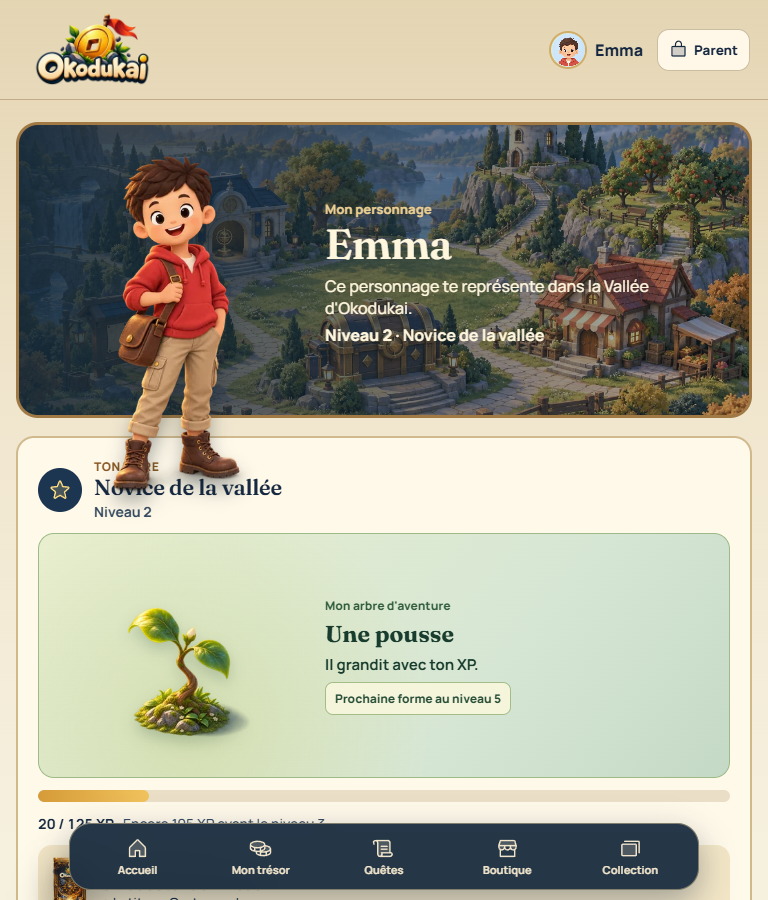
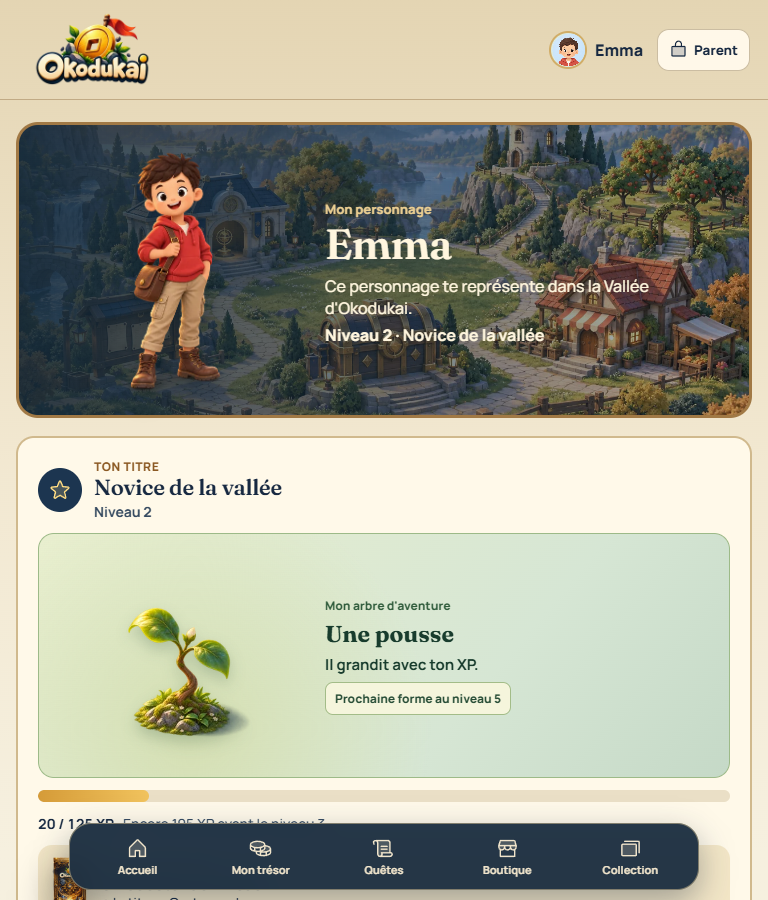
Extend full-body child roster and fix portrait framing

Changed region(s): [[0.125, 0.1556, 0.3125, 0.56]]

diff --git a/apps/web/src/styles/child-world.css b/apps/web/src/styles/child-world.css
@@ -120,7 +120,7 @@
 
 .character-scene { display: grid; grid-template-columns: 240px 1fr; align-items: center; gap: 30px; min-height: 285px; padding: 20px 36px; color: #fff6de; border: 3px solid #a17945; border-radius: 22px; background: linear-gradient(90deg, rgba(21, 42, 58, .9), rgba(21, 42, 58, .3)), url('/assets/backgrounds/child-hub-wide-1280.webp') center 48% / cover; }
 .character-portrait { width: 170px; height: 170px; display: grid; place-items: center; border: 5px solid #d4ae65; border-radius: 50%; background: radial-gradient(circle, #ffefca, #a67742); box-shadow: 0 8px 25px rgba(0, 0, 0, .3); }
-.character-portrait--figure { width: 235px; height: 250px; border: 0; border-radius: 0; background: none; box-shadow: none; }
+.character-portrait--figure { display: block; width: 235px; height: 250px; border: 0; border-radius: 0; background: none; box-shadow: none; }
 .character-figure-art { display: block; width: 100%; height: 100%; object-fit: contain; filter: drop-shadow(0 12px 9px rgba(14, 29, 36, .34)); }
 .character-figure-art .avatar { width: 138px; height: 138px; }
 .character-portrait .avatar { width: 138px; height: 138px; border: 0; }

diff --git a/apps/web/src/components/ChildCharacter.tsx b/apps/web/src/components/ChildCharacter.tsx
@@ -3,7 +3,7 @@ import { Avatar } from "./Avatar";
 /** Emma and Lucas have expressive poses; the other illustrated explorers keep their idle pose. */
 export type CharacterPose = "idle" | "happy" | "proud" | "thinking" | "victory" | "discovery";
 
-const illustratedAvatars = new Set(["aventurier-01", "aventurier-02", "aventurier-03", "aventurier-04", "aventurier-05", "aventurier-06"]);
+const illustratedAvatars = new Set(["aventurier-01", "aventurier-02", "aventurier-03", "aventurier-04", "aventurier-05", "aventurier-06", "aventurier-07", "aventurier-08", "aventurier-09", "aventurier-10"]);
 export function hasFullBodyCharacter(avatarId: string) { return illustratedAvatars.has(avatarId); }
 
 export function ChildCharacter({ avatarId, pose = "idle", className = "" }: { avatarId: string; pose?: CharacterPose; className?: string }) {

diff --git a/docs/CHILD_DESIGN_AUDIT.md b/docs/CHILD_DESIGN_AUDIT.md
@@ -37,7 +37,7 @@ Les captures viennent du foyer local de démonstration ; le bouton « Démo » n
 - Deux rendus d'échoppe évalués : le premier comportait des pseudo-inscriptions et a été écarté ; le second, sans texte peint, est intégré.
 - Album d'univers : son entête auparavant posé sur le fond beige reprend le décor de la galerie, avec un voile qui conserve la lisibilité. Les univers sans illustration de carte utilisent un pan de la galerie. Les chargements enfant affichent un sablier du monde. L'ouverture du booster a été vérifiée jusqu'au récapitulatif ; le dernier coup sur le cristal annonce sa rupture au lieu d'afficher « encore 0 touche ».
 - Boutique : la première planche de nouveaux objets reprenait le même motif d'étoile sur plusieurs récompenses sans raison. Elle a été rejetée. Les objets ont été refaits séparément, sans inscription ni emblème arbitraire. Le dessert et la glace ont deux images distinctes ; les récompenses de musique, ami, figurine, livre et temps d'écran ont chacune un objet lisible.
-- Personnages : les portraits 01–04 disposent maintenant d'un corps entier avec les traits et vêtements du roster. Les captures `child-character-{01,04}-{home,profile}-{375,768,1280}.png` contrôlent leur place dans la vallée et le profil. La silhouette reste visible derrière les plaques du village et le profil ne déborde pas sur téléphone.
+- Personnages : les portraits 01–04 et 07–10 disposent maintenant d'un corps entier avec les traits et vêtements du roster. Les captures `child-character-{01,04,07,10}-{home,profile}-{375,768,1280}.png` contrôlent leur place dans la vallée et le profil. Les portraits verticaux débordaient du profil sur tablette : le conteneur de figure utilise maintenant un bloc de hauteur fixe. Aucun débordement après nouvelle capture.
 
 ## Revue par profils (inspection de l'interface, sans test utilisateur)
 
@@ -54,4 +54,4 @@ Les captures viennent du foyer local de démonstration ; le bouton « Démo » n
 
 ## Limites constatées
 
-Les personnages de plein pied couvrent six portraits : Emma et Lucas ont six poses chacun, quatre autres ont une pose repos. Les dix autres portraits restent des avatars. Les paliers visuels 5/10/20/30 utilisent encore la scène de base, conformément au report décidé par le propriétaire. Les contenus éditoriaux du foyer et du seed restent en français. Ces limites sont consignées dans `CHILD_UI_REDESIGN.md` et `CHILD_ASSET_PLAN.md` ; elles ne changent ni les soldes, ni les protections parentales.
+Les personnages de plein pied couvrent dix portraits : Emma et Lucas ont six poses chacun, huit autres ont une pose repos. Les six autres portraits restent des avatars. Les paliers visuels 5/10/20/30 utilisent encore la scène de base, conformément au report décidé par le propriétaire. Les contenus éditoriaux du foyer et du seed restent en français. Ces limites sont consignées dans `CHILD_UI_REDESIGN.md` et `CHILD_ASSET_PLAN.md` ; elles ne changent ni les soldes, ni les protections parentales.

diff --git a/docs/ASSET_REGISTRY.md b/docs/ASSET_REGISTRY.md
@@ -34,6 +34,7 @@ code du dépôt (aucune banque d'images, aucun modèle génératif externe, aucu
 | Registre de compte | `backgrounds/child-registry-interior-{1280,1920}.webp` | Intérieur généré avec la vallée comme référence visuelle ; zone sombre à gauche et registre de cuir à droite. Source `art/source/child/registry-interior.png` | `node apps/web/scripts/optimize-child-art.mjs` | 2026-09-27 |
 | Emma et Lucas en pied | `characters/adventurer-{emma,lucas}-{idle,happy,proud,thinking,victory,discovery}-{256,512,768}.webp` | Génération d'images avec portrait du roster comme référence ; six poses cohérentes par personnage, contrôlées visuellement. PNG dans `apps/web/art/source/child/` | `node apps/web/scripts/optimize-child-art.mjs` | 2026-09-27 |
 | Quatre nouveaux personnages en pied | `characters/adventurer-{01,02,03,04}-idle-{256,512,768}.webp` | Générés individuellement avec le roster et Emma comme références ; visages, coiffures et vêtements du portrait conservés, sans inscriptions. PNG sources dans `apps/web/art/source/child/` | `node apps/web/scripts/optimize-child-art.mjs` | 2026-09-27 |
+| Quatre personnages supplémentaires | `characters/adventurer-{07,08,09,10}-idle-{256,512,768}.webp` | Même méthode et même lumière, chaque portrait étant la référence d'identité ; sources PNG conservées. | `node apps/web/scripts/optimize-child-art.mjs` | 2026-09-27 |
 | Récompenses familiales | `rewards/reward-{cinema,icecream,bicycle,family-game}-{256,512}.webp` | Objets générés sur fond transparent ; contrôlés puis reliés à des titres de récompenses par `RewardArt.tsx`. PNG dans `apps/web/art/source/child/` | `node apps/web/scripts/optimize-child-art.mjs` | 2026-09-27 |
 | Récompenses familiales complémentaires | `rewards/reward-{dessert,music,friend,figurine,book}-{256,512}.webp` | Cinq objets générés individuellement et contrôlés en grand puis dans l'échoppe. Une première planche à quatre cases a été rejetée à cause de motifs d'étoile répétés sans fonction ; seuls les cinq objets retenus et leurs PNG sources sont versionnés. Le temps d'écran réemploie le sablier du Studio. | `node apps/web/scripts/optimize-child-art.mjs` | 2026-09-27 |
 | Scènes pédagogiques | `learning/learning-{diversification,inflation,risk,compound}-{320,640}.webp` | Planche de quatre scènes générée pour la vallée puis découpée sur ses gouttières ; PNG dans `apps/web/art/source/child/` | `node apps/web/scripts/optimize-child-art.mjs` | 2026-09-27 |

diff --git a/docs/CHILD_ASSET_PLAN.md b/docs/CHILD_ASSET_PLAN.md
@@ -16,7 +16,7 @@ Le registre des fichiers livrés et de leur provenance est `ASSET_REGISTRY.md`. 
 | `adventurer-{emma,lucas}-idle-{256,512,768}.webp` | Place, profil | WebP transparent | Personnages du roster en pied | P1 | Livré |
 | `adventurer-{emma,lucas}-victory-{256,512,768}.webp` | Validation de quête | WebP transparent | Même personnage et caméra | P1 | Livré |
 | `adventurer-{emma,lucas}-{happy,proud,thinking,discovery}-{256,512,768}.webp` | Place, profil et leçons | WebP transparent, trois tailles | Même personnage, tenue et caméra que les poses existantes | P1 | Livré |
-| Personnages en pied pour les 14 autres portraits | Profil et moments de jeu | WebP transparent 256/512/768 | Fidèles au portrait choisi | P1 | Portraits 01–04 livrés en pose repos ; 07–16 à produire |
+| Personnages en pied pour les 14 autres portraits | Profil et moments de jeu | WebP transparent 256/512/768 | Fidèles au portrait choisi | P1 | Portraits 01–04 et 07–10 livrés en pose repos ; 11–16 à produire |
 | `reward-{cinema,icecream,bicycle,family-game}-{256,512}.webp` | Boutique, récompenses familiales | WebP transparent | Objets trois-quarts, palette du monde | P1 | Livré |
 | `reward-{dessert,music,friend,figurine,book}-{256,512}.webp` | Boutique, récompenses courantes du foyer | WebP transparent | Objets distincts, détails fonctionnels et sans inscriptions | P1 | Livré, contrôlé à 375/768/1280 px |
 | `quest-{habit,mission,major,booster}.webp` | Journal, type de quête | WebP transparent 256 | Objet sobre, sans texte | P1 | Variantes visuelles par objets existants livrées ; assets dédiés à produire |

diff --git a/docs/CHILD_UI_REDESIGN.md b/docs/CHILD_UI_REDESIGN.md
@@ -40,4 +40,4 @@ Les nouveaux textes de l'accueil, de la navigation, du journal, de la boutique, 
 
 ## Suite prévue
 
-Les 16 portraits sont disponibles. Emma (`aventurier-06`) et Lucas (`aventurier-05`) disposent chacun des six poses cohérentes prévues : repos, heureux, fier, réflexion, victoire et découverte. La place montre la pose heureuse, le profil la pose fière et les étapes de leçon passent de découverte à réflexion puis fier ; la validation de quête utilise victoire. Les portraits 01–04 possèdent aussi un personnage en pied, fidèle à leur visage et à leur tenue, en pose repos. Les 07–16 utilisent encore leur portrait. Les cinq paliers du village sont sélectionnés par le niveau mais partagent encore le même décor ; les calques de progression restent à produire. Aucun effet de progression fictif n'est affiché.
+Les 16 portraits sont disponibles. Emma (`aventurier-06`) et Lucas (`aventurier-05`) disposent chacun des six poses cohérentes prévues : repos, heureux, fier, réflexion, victoire et découverte. La place montre la pose heureuse, le profil la pose fière et les étapes de leçon passent de découverte à réflexion puis fier ; la validation de quête utilise victoire. Les portraits 01–04 et 07–10 possèdent aussi un personnage en pied, fidèle à leur visage et à leur tenue, en pose repos. Les 11–16 utilisent encore leur portrait. Les cinq paliers du village sont sélectionnés par le niveau mais partagent encore le même décor ; les calques de progression restent à produire. Aucun effet de progression fictif n'est affiché.
